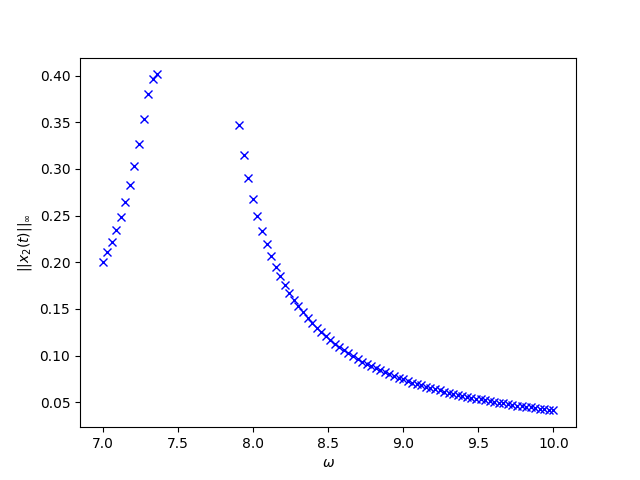
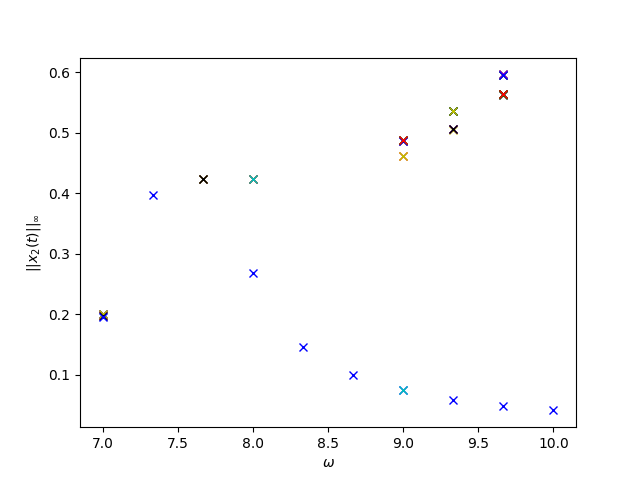
fix+lbfgs

diff --git a/optimizator/optimizer/optimize.py b/optimizator/optimizer/optimize.py
@@ -11,6 +11,7 @@ def optimize(target_function,
     # definitions
     points = domain_sampler(optimization_hparams['nb_points'], target_function_hparams['nb_dims']).to(torch.device(device))
     
+    # first-order optimization for memory reason when number of points is large
     # optimizer = optim.SGD(points.parameters(), optimization_hparams['learning_rate'], momentum=0.0)
     optimizer = optim.Adam(points.parameters(), optimization_hparams['learning_rate'])
 
@@ -27,7 +28,7 @@ def optimize(target_function,
 
         function_outputs = target_function(target_function_hparams, points(-1), device)
 
-        loss = torch.linalg.vector_norm(function_outputs, dim=1).mean()
+        loss = torch.linalg.vector_norm(function_outputs, dim=1).pow(2).mean()
 
         loss.backward()
 
@@ -39,27 +40,43 @@ def optimize(target_function,
         scheduler.step(loss)
 
     # removal of improper solutions (e.g. bad local minima or saddle points)
-    non_reduced_loss = torch.linalg.vector_norm(function_outputs, dim=1)
+    non_reduced_loss = torch.linalg.vector_norm(function_outputs, dim=1).pow(2)
     valid_solutions_indices = (non_reduced_loss < optimization_hparams['kept_threshold']).float().nonzero()
     valid_solutions = points(-1)[valid_solutions_indices.squeeze()]
-
+    print(valid_solutions.size())
     # if no solutions are found at all
     if valid_solutions.numel() == 0:
-        return None, torch.linalg.vector_norm(target_function(target_function_hparams, points(-1), device)).min().item()
+        return None, torch.linalg.vector_norm(target_function(target_function_hparams, points(-1), device)).pow(2).min().item()
 
     # merge of identical (up to an distance threshold) solutions
     # done with a loop for memory consumption reasons
     distinct_solutions = valid_solutions[0].unsqueeze(0)
-    for valid_solution_idx in range(valid_solutions.size(1)):
+    for valid_solution_idx in range(1,valid_solutions.size(0)):
         distance_to_all_found_distinct_solutions = torch.cdist(distinct_solutions, valid_solutions[valid_solution_idx].view(1,1,target_function_hparams['nb_dims']))
         # if a new distinct solution is found : add it to the list
         if (distance_to_all_found_distinct_solutions > optimization_hparams['merge_threshold']).all():
-            distinct_solutions = torch.cat(distinct_solutions, valid_solutions[valid_solution_idx].unsqueeze(0), dim=0)
+            distinct_solutions = torch.cat((distinct_solutions, valid_solutions[valid_solution_idx].unsqueeze(0)), dim=0)
         # else : add the solution to its already found corresponding one for better approximation using an exponential average
         else:
             corresponding_distinct_solution_idx = (distance_to_all_found_distinct_solutions < optimization_hparams['merge_threshold']).float().nonzero()
             distinct_solutions[corresponding_distinct_solution_idx] = optimization_hparams['exponential_mean'] * distinct_solutions[corresponding_distinct_solution_idx] + (1-optimization_hparams['exponential_mean']) * valid_solutions[valid_solution_idx]
 
-    return distinct_solutions.cpu(), torch.linalg.vector_norm(target_function(target_function_hparams, distinct_solutions.to(device), device)).flatten().tolist()
+    # finetuning using LBFGS (pseudo-newton)
+    distinct_solutions = distinct_solutions.detach()
+    distinct_solutions.requires_grad_(True)
+    optimizer = optim.LBFGS([distinct_solutions], lr=optimization_hparams['scheduler_min_lr'])
+
+    def closure():
+        optimizer.zero_grad()
+        loss = torch.linalg.vector_norm(target_function(target_function_hparams, distinct_solutions, device), dim=1).pow(2).mean()
+        loss.backward()
+        return loss
+
+    for iteration in range(optimization_hparams['finetuning_iterations']):
+        optimizer.step(closure)
+
+    distinct_solutions.requires_grad_(False)
+
+    return distinct_solutions.cpu(), torch.linalg.vector_norm(target_function(target_function_hparams, distinct_solutions, device), dim=1).pow(2).flatten().tolist()
 
     

diff --git a/optimizator/main.py b/optimizator/main.py
@@ -13,11 +13,21 @@ from logger.visualize import visualize
 
 if __name__ == '__main__':
 
-    device = torch.device("cuda:0")
+    device = torch.device(opt_config.device)
 
-    solutions_storage = []
+    if opt_config.checkpoint_path is not None:
+        checkpoint = torch.load(opt_config.checkpoint_path)
+        omega_start = checkpoint['omega_start']
+        omega_end = checkpoint['omega_end']
+        omega_steps = checkpoint['omega_steps']
+        solutions_storage = checkpoint['solutions_storage']
+    else:
+        omega_start = func_config.omegas_range[0]
+        omega_end = func_config.omegas_range[1]
+        omega_steps = func_config.omegas_steps
+        solutions_storage = []
 
-    for omega in np.linspace(func_config.omegas_range[0], func_config.omegas_range[1], func_config.omegas_steps):
+    for omega_idx, omega in enumerate(np.linspace(omega_start, omega_end, omega_steps)):
 
         Z, Fh = construction_Zred_Fred_dZreddw_dFreddw(omega,func_config.M,func_config.C,func_config.K,func_config.F,func_config.Nh,func_config.beta,func_config.gamma,func_config.ddl_ln,func_config.ddl_nl,func_config.derivatives,func_config.penalite,func_config.nu)
         Z = torch.tensor(Z, dtype=torch.float32, device=device)
@@ -33,11 +43,17 @@ if __name__ == '__main__':
                                 'exponential_mean':opt_config.exponential_mean,
                                 'scheduler_factor':opt_config.scheduler_factor,
                                 'scheduler_patience':opt_config.scheduler_patience,
-                                'scheduler_min_lr':opt_config.scheduler_min_lr}
+                                'scheduler_min_lr':opt_config.scheduler_min_lr,
+                                'finetuning_iterations':opt_config.finetuning_iterations}
 
         solutions, loss = optimize(target_function, target_function_hparams, DomainSampler, optimization_hparams, device)
         if solutions is not None:
             solutions_storage.append([omega, solutions])
+            checkpoint = {'omega_start':omega+(func_config.omegas_range[1]-func_config.omegas_range[0])/func_config.omegas_steps,
+                          'omega_end':func_config.omegas_range[1],
+                          'omega_steps':func_config.omegas_steps-omega_idx+1,
+                          'solutions_storage':solutions_storage}
+            torch.save(checkpoint, './checkpoint/checkpoint.pt')
             print("For omega =", omega, ",", solutions.size(0), "solutions were found.")
             print("With losses :", loss)
         else:

diff --git a/optimizator/demo/lbfgs.py b/optimizator/demo/lbfgs.py
@@ -1,0 +1,49 @@
+import torch
+import torch.optim as optim
+import matplotlib.pyplot as plt
+
+
+# 2d Rosenbrock function
+def f(x):
+    return (1 - x[0])**2 + 100 * (x[1] - x[0]**2)**2
+
+
+# Gradient descent
+x_gd = 10*torch.ones(2, 1)
+x_gd.requires_grad = True
+gd = optim.SGD([x_gd], lr=1e-5)
+history_gd = []
+for i in range(100):
+    gd.zero_grad()
+    objective = f(x_gd)
+    objective.backward()
+    gd.step()
+    history_gd.append(objective.item())
+
+
+# L-BFGS
+def closure():
+    lbfgs.zero_grad()
+    objective = f(x_lbfgs)
+    objective.backward()
+    return objective
+
+x_lbfgs = 10*torch.ones(2, 1)
+x_lbfgs.requires_grad = True
+
+lbfgs = optim.LBFGS([x_lbfgs],
+                    history_size=10, 
+                    max_iter=4, 
+                    line_search_fn="strong_wolfe")
+                    
+history_lbfgs = []
+for i in range(100):
+    history_lbfgs.append(f(x_lbfgs).item())
+    lbfgs.step(closure)
+
+
+# Plotting
+plt.semilogy(history_gd, label='GD')
+plt.semilogy(history_lbfgs, label='L-BFGS')
+plt.legend()
+plt.show()

diff --git a/optimizator/function/domain_sampler.py b/optimizator/function/domain_sampler.py
@@ -7,12 +7,11 @@ class DomainSampler(nn.Module):
 
         self.nb_points = nb_points
         self.dims = dims
-        weight_init = 2 * (torch.rand(self.nb_points, self.dims)-0.5)
-        for candidate_idx in range(self.nb_points):
-            for harmonic_idx in range(self.dims):
-                magnitude = 10**(-0.21*harmonic_idx - 1.6)
-                weight_init[candidate_idx, harmonic_idx] *= magnitude
-        
+        weight_init = torch.zeros(self.nb_points, self.dims)
+        for harmonic_idx in range(self.dims):
+            # magnitude = 10*10**(-0.21*harmonic_idx - 1.6)
+            magnitude = 1.0
+            weight_init[:, harmonic_idx] = magnitude*2.0*(torch.rand(self.nb_points)-0.5)
         self.weight = nn.Parameter(weight_init)
 
     def forward(self, _):

diff --git a/optimizator/optimizer/config.py b/optimizator/optimizer/config.py
@@ -1,12 +1,17 @@
 
 device = "cuda:0"
-learning_rate = 1e-2
-nb_points = 1000
-iterations = 20000
+learning_rate = 1.0
+nb_points = 2000
+iterations = 50000
 kept_threshold = 1e-3
 merge_threshold = 1e-4
 exponential_mean = 0.9
 
 scheduler_factor = 0.5
-scheduler_patience = 100
+scheduler_patience = 300
 scheduler_min_lr = 1e-8
+
+finetuning_iterations = 10
+
+checkpoint_path = None
+# checkpoint_path = './checkpoint/checkpoint.pt'

diff --git a/optimizator/function/config.py b/optimizator/function/config.py
@@ -33,7 +33,7 @@ seuil_xi = np.array([1])
 fact_xi = np.array([1])
 C = amort_modal(K,M,xi,seuil_xi,fact_xi)
 
-f0 = 2
+f0 = 20
 w,p = eigh(K,M)
 F = f0*M@p[:,0]
 
@@ -44,7 +44,7 @@ ddl_ln = np.array([0],dtype=np.int64)
 
 derivatives = False
 penalite = None
-nu = 1
+nu = 4
 
-omegas_range = [7.0, 10.0]
+omegas_range = [7.0, 11.5]
 omegas_steps = 100
